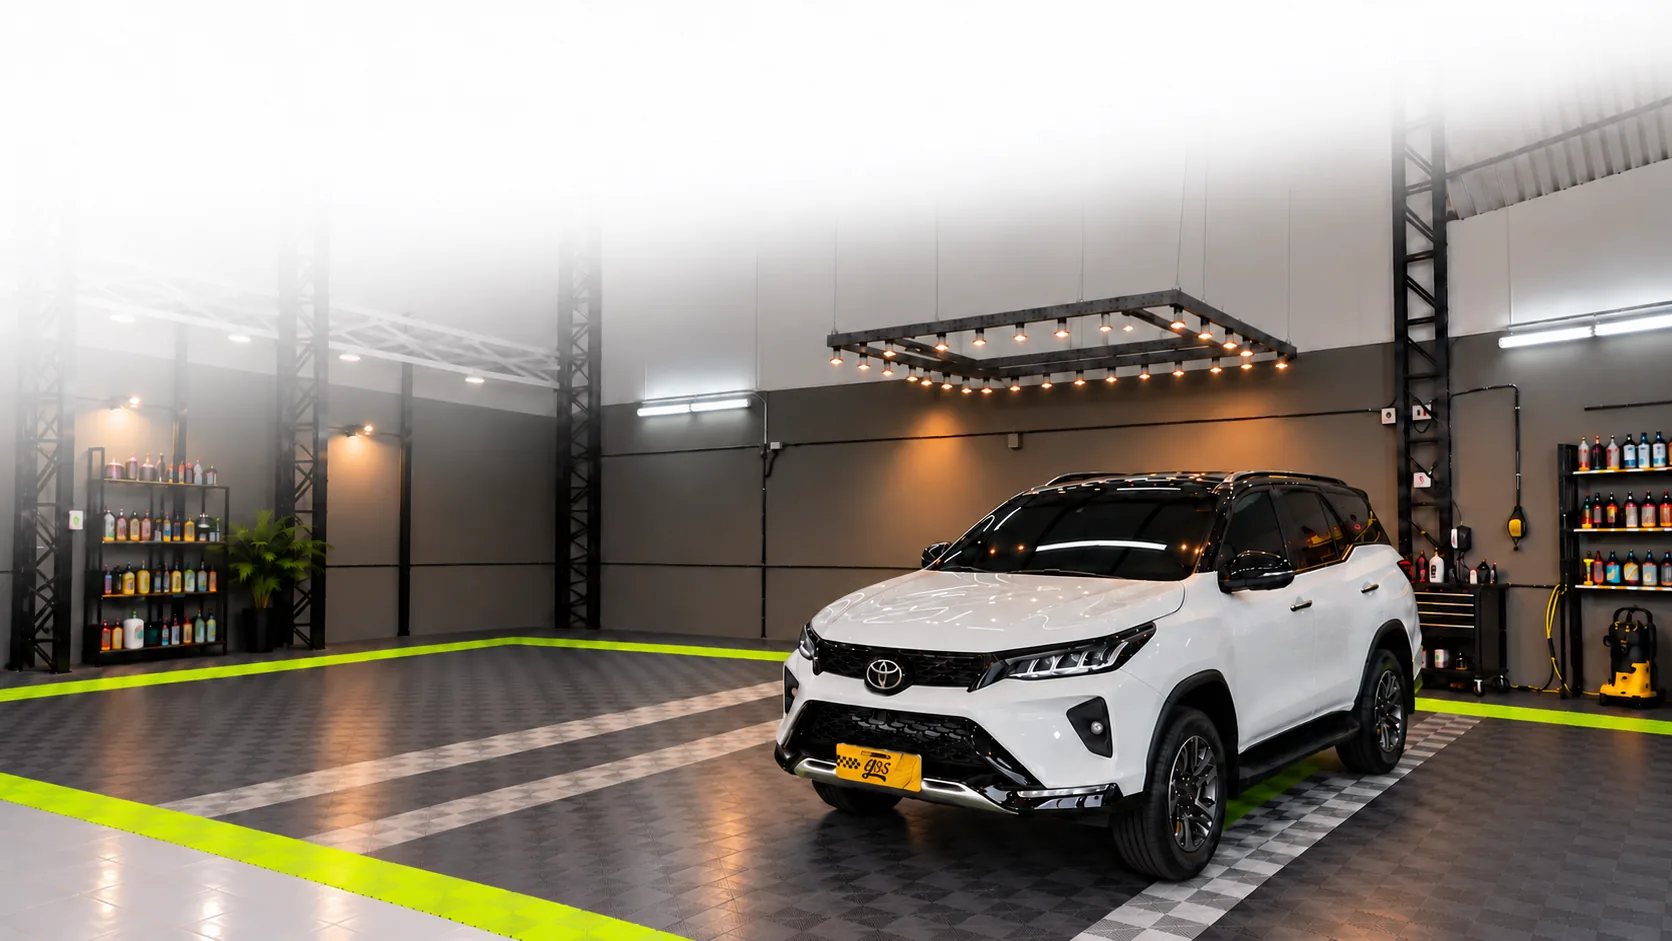
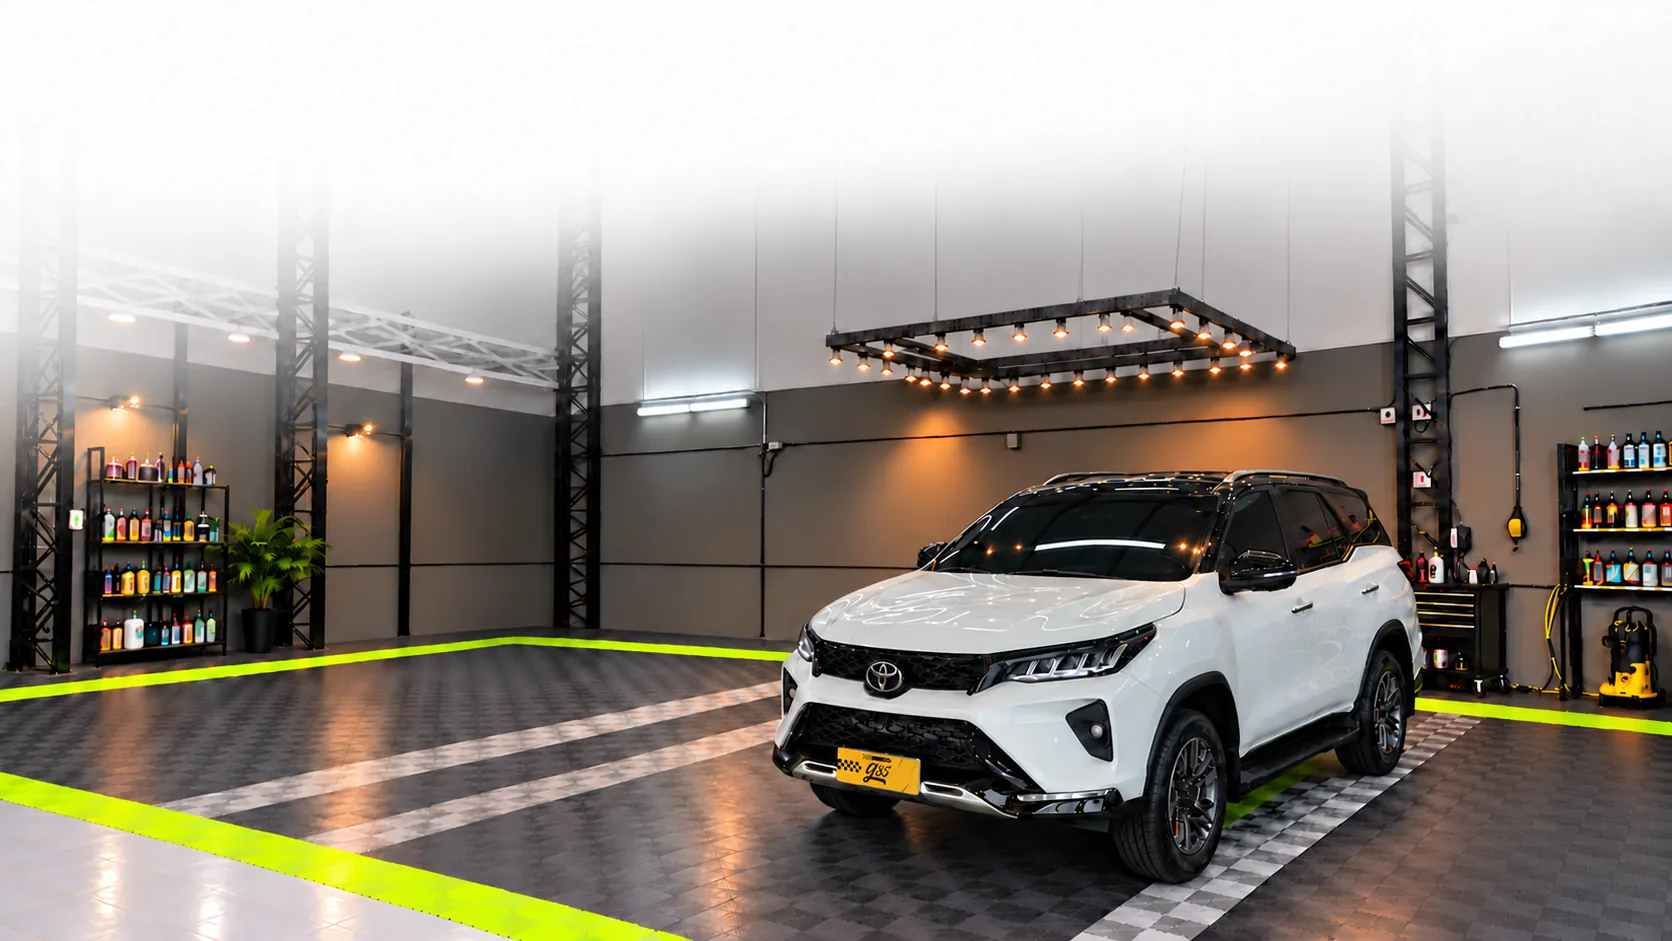
Hero desktop: troca o fundo pela nova imagem em WebP
Substitui o fundo da hero no desktop pela imagem enviada no main
(SUV no estúdio com placa amarela), convertida para WebP.
Original PNG movido para assets/hero/png/hero-desktop-16x9.png.

Claude-Session: https://claude.ai/code/session_01V49PeJdfV3ykhn7DuoqmoA

diff --git a/index.html b/index.html
@@ -995,7 +995,7 @@ footer{background:#000;border-top:1px solid var(--line);padding:60px 0 40px}
   <picture class="hero__bg">
     <source media="(max-width:640px)" srcset="assets/hero/webp/hero-mobile-9x16.webp?v=2">
     <source media="(max-width:1100px)" srcset="assets/hero/webp/hero-tablet-ipad-3x4.webp?v=2">
-    <img src="assets/hero/webp/hero-desktop-16x9.webp?v=3" alt="Veículo no box de detalhamento do Studio G85" fetchpriority="high" decoding="async">
+    <img src="assets/hero/webp/hero-desktop-16x9.webp?v=4" alt="Veículo no box de detalhamento do Studio G85" fetchpriority="high" decoding="async">
   </picture>
   <div class="hero__shade" aria-hidden="true"></div>
 
